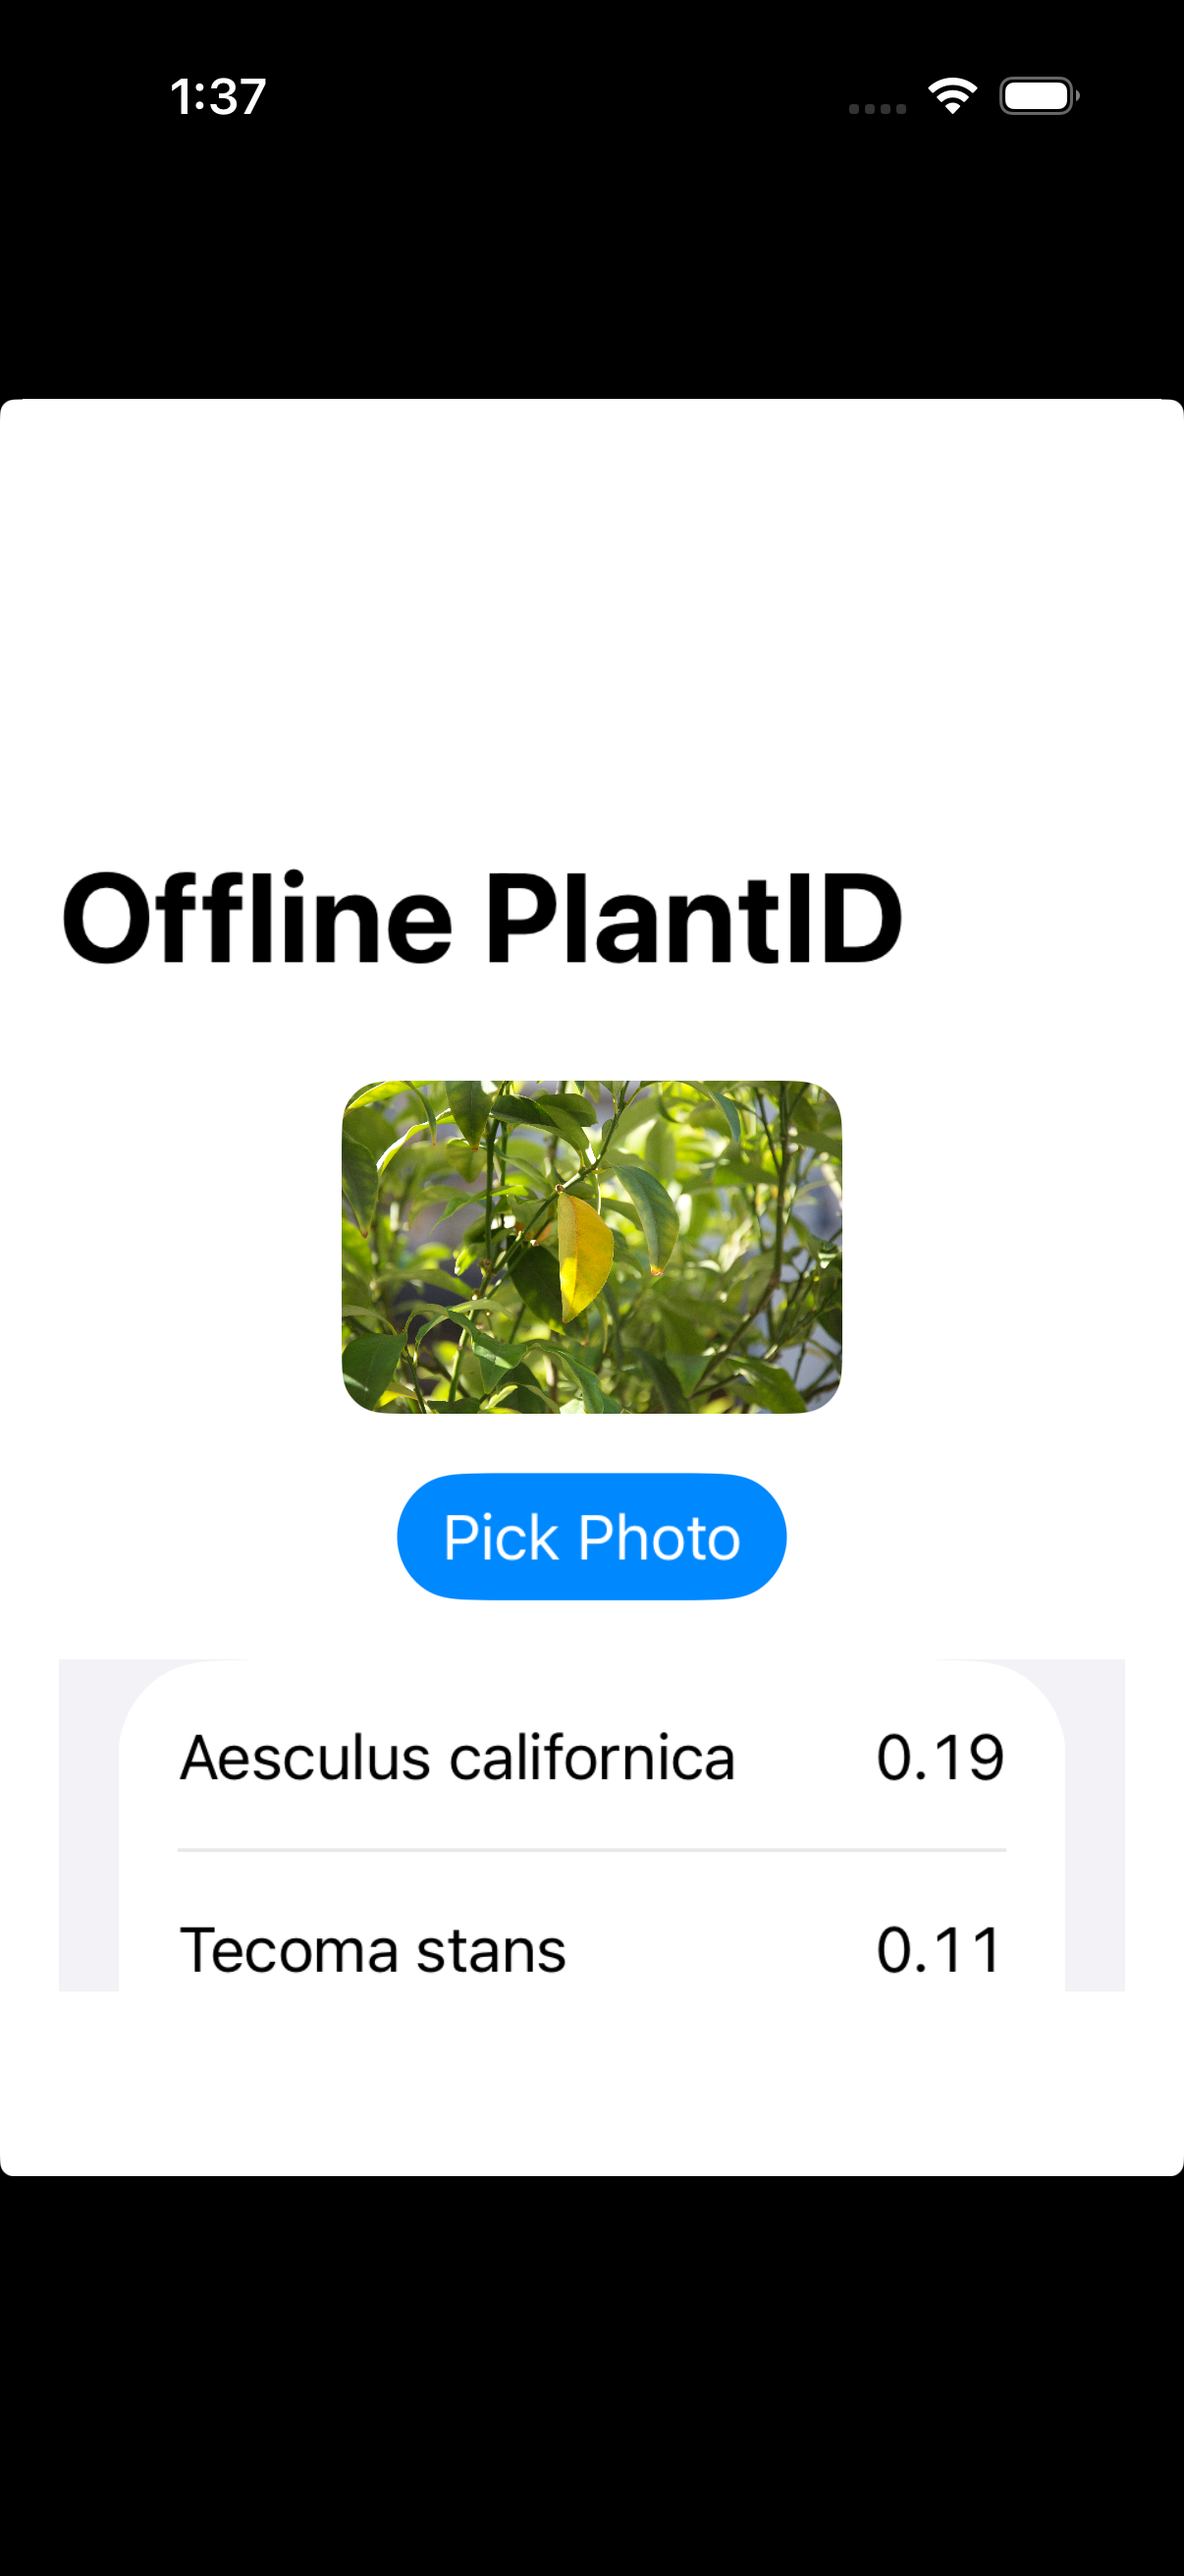
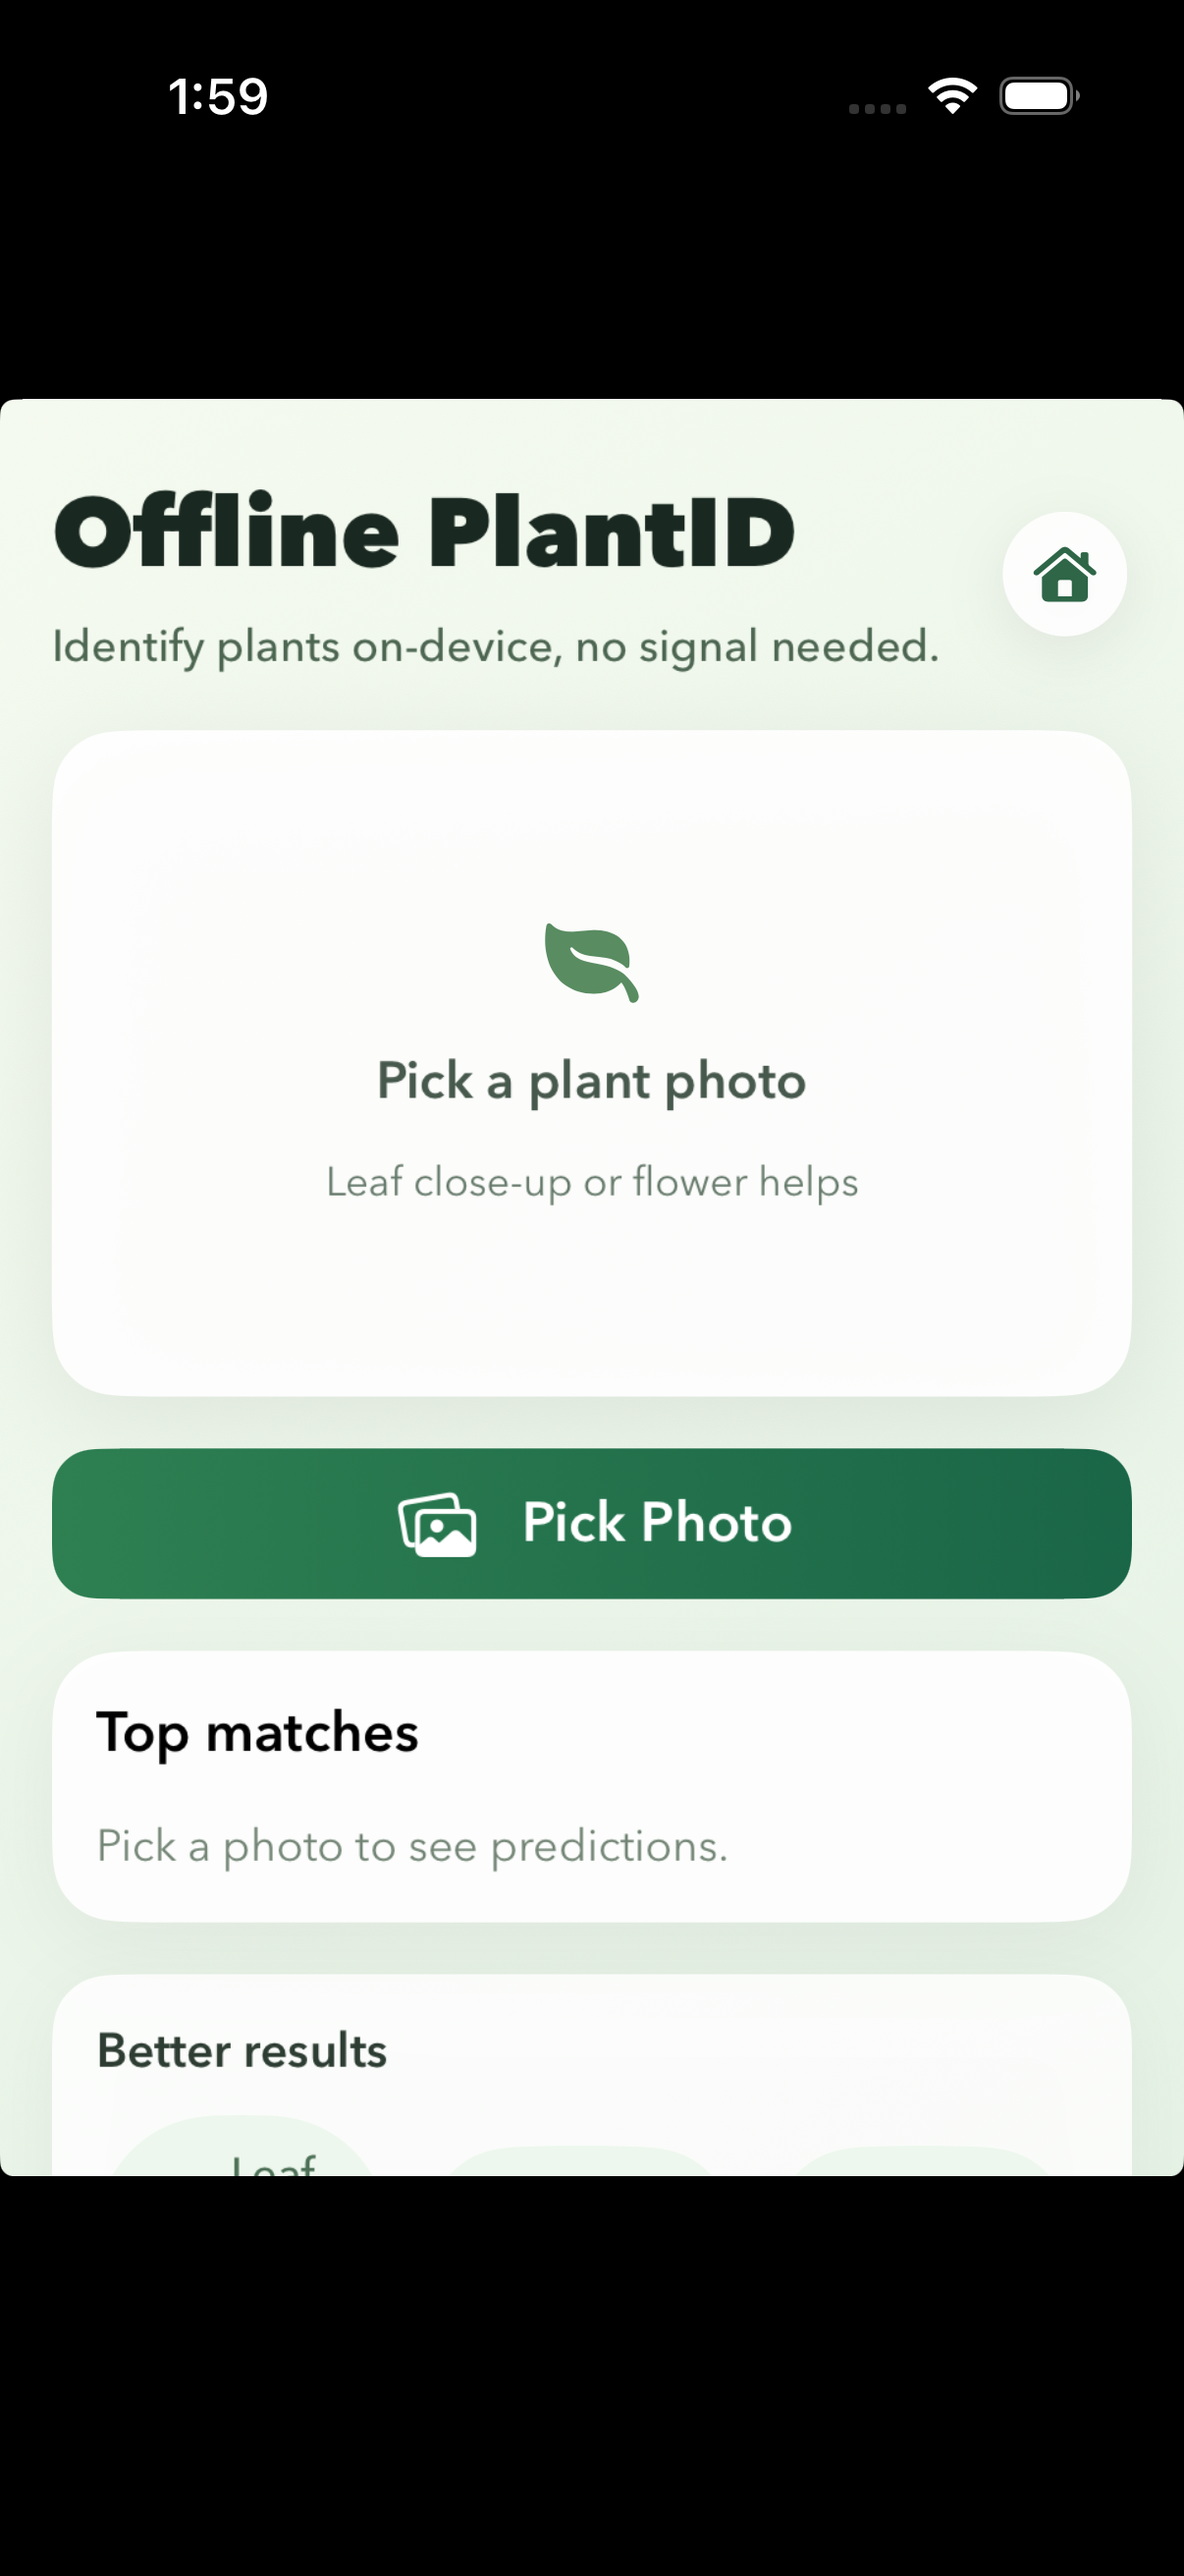
Update app

diff --git a/Sources/ContentView.swift b/Sources/ContentView.swift
@@ -9,43 +9,31 @@ struct ContentView: View {
     private let modelDataHandler = ModelDataHandler()
 
     var body: some View {
-        NavigationView {
-            VStack(spacing: 16) {
-                if let image = selectedImage {
-                    Image(uiImage: image)
-                        .resizable()
-                        .scaledToFit()
-                        .frame(maxHeight: 260)
-                        .cornerRadius(12)
-                } else {
-                    RoundedRectangle(cornerRadius: 12)
-                        .fill(Color.gray.opacity(0.15))
-                        .frame(height: 220)
-                        .overlay(Text("Pick a plant photo"))
-                }
+        ZStack {
+            LinearGradient(
+                colors: [Color(red: 0.96, green: 0.98, blue: 0.94),
+                         Color(red: 0.90, green: 0.95, blue: 0.90)],
+                startPoint: .topLeading,
+                endPoint: .bottomTrailing
+            )
+            .ignoresSafeArea()
 
-                Button("Pick Photo") {
-                    isPickerPresented = true
+            ScrollView {
+                VStack(spacing: 14) {
+                    header
+                    photoCard
+                    actionRow
+                    resultCard
+                    tipsCard
+                    Spacer(minLength: 0)
                 }
-                .buttonStyle(.borderedProminent)
-
-                if let errorMessage {
-                    Text(errorMessage)
-                        .foregroundColor(.red)
-                }
-
-                List(predictions) { prediction in
-                    HStack {
-                        Text(prediction.label)
-                        Spacer()
-                        Text(String(format: "%.2f", prediction.confidence))
-                            .monospacedDigit()
-                    }
-                }
+                .frame(maxWidth: .infinity, minHeight: UIScreen.main.bounds.height, alignment: .top)
+                .padding(.horizontal, 14)
+                .padding(.vertical, 14)
             }
-            .padding()
-            .navigationTitle("Offline PlantID")
+            .frame(maxWidth: .infinity, maxHeight: .infinity)
         }
+        .frame(maxWidth: .infinity, maxHeight: .infinity)
         .sheet(isPresented: $isPickerPresented) {
             PhotoPicker { image in
                 selectedImage = image
@@ -75,6 +63,218 @@ struct ContentView: View {
                 }
             }
         }
+    }
+}
+
+private extension ContentView {
+    var topPrediction: Prediction? {
+        predictions.max(by: { $0.confidence < $1.confidence })
+    }
+
+    var header: some View {
+        VStack(alignment: .leading, spacing: 8) {
+            HStack {
+                VStack(alignment: .leading, spacing: 4) {
+                    Text("Offline PlantID")
+                        .font(.custom("AvenirNext-Heavy", size: 26))
+                        .foregroundColor(Color(red: 0.10, green: 0.16, blue: 0.13))
+                    Text("Identify plants on-device, no signal needed.")
+                        .font(.custom("AvenirNext-Medium", size: 12))
+                        .foregroundColor(Color(red: 0.30, green: 0.40, blue: 0.32))
+                }
+                Spacer()
+                Button {
+                    selectedImage = nil
+                    predictions = []
+                    errorMessage = nil
+                } label: {
+                    Image(systemName: "house.fill")
+                        .font(.system(size: 14, weight: .semibold))
+                        .foregroundColor(Color(red: 0.18, green: 0.40, blue: 0.28))
+                        .padding(8)
+                        .background(Color.white.opacity(0.9))
+                        .clipShape(Circle())
+                        .shadow(color: Color.black.opacity(0.08), radius: 8, x: 0, y: 4)
+                }
+                .accessibilityLabel("Go home")
+            }
+        }
+        .frame(maxWidth: .infinity, alignment: .leading)
+    }
+
+    var photoCard: some View {
+        ZStack {
+            RoundedRectangle(cornerRadius: 18, style: .continuous)
+                .fill(Color.white.opacity(0.9))
+                .shadow(color: Color.black.opacity(0.08), radius: 14, x: 0, y: 6)
+
+            if let image = selectedImage {
+                Image(uiImage: image)
+                    .resizable()
+                    .scaledToFill()
+                    .frame(height: 180)
+                    .clipped()
+                    .cornerRadius(16)
+                    .padding(6)
+            } else {
+                VStack(spacing: 10) {
+                    Image(systemName: "leaf.fill")
+                        .font(.system(size: 24))
+                        .foregroundColor(Color(red: 0.35, green: 0.55, blue: 0.38))
+                    Text("Pick a plant photo")
+                        .font(.custom("AvenirNext-DemiBold", size: 14))
+                        .foregroundColor(Color(red: 0.28, green: 0.35, blue: 0.30))
+                    Text("Leaf close-up or flower helps")
+                        .font(.custom("AvenirNext-Regular", size: 11))
+                        .foregroundColor(Color(red: 0.40, green: 0.48, blue: 0.42))
+                }
+                .frame(height: 180)
+            }
+        }
+    }
+
+    var actionRow: some View {
+        HStack(spacing: 12) {
+            Button {
+                isPickerPresented = true
+            } label: {
+                HStack(spacing: 10) {
+                    Image(systemName: "photo.on.rectangle.angled")
+                    Text(selectedImage == nil ? "Pick Photo" : "Pick Another")
+                        .font(.custom("AvenirNext-DemiBold", size: 15))
+                }
+                .foregroundColor(.white)
+                .padding(.vertical, 10)
+                .frame(maxWidth: .infinity)
+                .background(
+                    LinearGradient(
+                        colors: [Color(red: 0.18, green: 0.50, blue: 0.32),
+                                 Color(red: 0.10, green: 0.40, blue: 0.28)],
+                        startPoint: .leading,
+                        endPoint: .trailing
+                    )
+                )
+                .clipShape(RoundedRectangle(cornerRadius: 12, style: .continuous))
+            }
+        }
+    }
+
+    var resultCard: some View {
+        VStack(alignment: .leading, spacing: 12) {
+            HStack {
+                Text("Top matches")
+                    .font(.custom("AvenirNext-DemiBold", size: 15))
+                Spacer()
+                if !predictions.isEmpty {
+                    Text("Confidence")
+                        .font(.custom("AvenirNext-Medium", size: 10))
+                        .foregroundColor(Color(red: 0.45, green: 0.52, blue: 0.46))
+                }
+            }
+
+            if let errorMessage {
+                Text(errorMessage)
+                    .font(.custom("AvenirNext-Medium", size: 12))
+                    .foregroundColor(Color(red: 0.72, green: 0.18, blue: 0.18))
+            } else if predictions.isEmpty {
+                Text("Pick a photo to see predictions.")
+                    .font(.custom("AvenirNext-Regular", size: 12))
+                    .foregroundColor(Color(red: 0.45, green: 0.52, blue: 0.46))
+            } else {
+                if let topPrediction {
+                    HStack(alignment: .firstTextBaseline, spacing: 8) {
+                        Text("Most likely:")
+                            .font(.custom("AvenirNext-Medium", size: 12))
+                            .foregroundColor(Color(red: 0.35, green: 0.42, blue: 0.36))
+                        Text(topPrediction.label)
+                            .font(.custom("AvenirNext-DemiBold", size: 13))
+                            .foregroundColor(Color(red: 0.12, green: 0.18, blue: 0.14))
+                    }
+                }
+                VStack(spacing: 8) {
+                    ForEach(predictions) { prediction in
+                        let isTop = prediction.id == topPrediction?.id
+                        VStack(spacing: 6) {
+                            HStack(alignment: .firstTextBaseline) {
+                                Text(prediction.label)
+                                    .font(.custom("AvenirNext-Medium", size: 13))
+                                    .foregroundColor(Color(red: 0.16, green: 0.20, blue: 0.17))
+                                Spacer()
+                                Text(String(format: "%.0f%%", min(max(prediction.confidence, 0), 1) * 100))
+                                    .font(.custom("AvenirNext-DemiBold", size: 11))
+                                    .foregroundColor(Color(red: 0.18, green: 0.40, blue: 0.28))
+                            }
+                            ConfidenceBar(value: prediction.confidence)
+                        }
+                        .padding(8)
+                        .background(
+                            RoundedRectangle(cornerRadius: 10, style: .continuous)
+                                .fill(isTop ? Color(red: 0.90, green: 0.97, blue: 0.90) : Color.clear)
+                        )
+                    }
+                }
+            }
+        }
+        .padding(12)
+        .background(Color.white.opacity(0.9))
+        .clipShape(RoundedRectangle(cornerRadius: 18, style: .continuous))
+        .shadow(color: Color.black.opacity(0.06), radius: 12, x: 0, y: 5)
+    }
+
+    var tipsCard: some View {
+        VStack(alignment: .leading, spacing: 8) {
+            Text("Better results")
+                .font(.custom("AvenirNext-DemiBold", size: 13))
+                .foregroundColor(Color(red: 0.18, green: 0.24, blue: 0.20))
+            HStack(spacing: 10) {
+                tipPill(icon: "leaf", text: "Leaf close-up")
+                tipPill(icon: "camera.macro", text: "Sharp focus")
+                tipPill(icon: "sun.max", text: "Good light")
+            }
+        }
+        .frame(maxWidth: .infinity, alignment: .leading)
+        .padding(12)
+        .background(Color.white.opacity(0.85))
+        .clipShape(RoundedRectangle(cornerRadius: 16, style: .continuous))
+        .shadow(color: Color.black.opacity(0.05), radius: 10, x: 0, y: 4)
+    }
+
+    func tipPill(icon: String, text: String) -> some View {
+        HStack(spacing: 6) {
+            Image(systemName: icon)
+            Text(text)
+                .font(.custom("AvenirNext-Medium", size: 12))
+        }
+        .foregroundColor(Color(red: 0.30, green: 0.44, blue: 0.34))
+        .padding(.vertical, 8)
+        .padding(.horizontal, 10)
+        .background(Color(red: 0.93, green: 0.97, blue: 0.93))
+        .clipShape(Capsule())
+    }
+}
+
+private struct ConfidenceBar: View {
+    let value: Float
+
+    var body: some View {
+        GeometryReader { proxy in
+            let clamped = min(max(CGFloat(value), 0), 1)
+            ZStack(alignment: .leading) {
+                Capsule()
+                    .fill(Color(red: 0.90, green: 0.94, blue: 0.90))
+                Capsule()
+                    .fill(
+                        LinearGradient(
+                            colors: [Color(red: 0.22, green: 0.55, blue: 0.36),
+                                     Color(red: 0.12, green: 0.43, blue: 0.30)],
+                            startPoint: .leading,
+                            endPoint: .trailing
+                        )
+                    )
+                    .frame(width: proxy.size.width * clamped)
+            }
+        }
+        .frame(height: 6)
     }
 }
 

diff --git a/README.md b/README.md
@@ -3,7 +3,9 @@
 SwiftUI + iOS 15+ offline plant classifier using the Nature Explorer plants model.
 
 <p align="center">
-  <img src="docs/app-screenshot-01.png" alt="Offline PlantID app screenshot" width="320">
+  <img src="docs/app-screenshot-01.png" alt="Offline PlantID app screenshot 1" width="260">
+  <img src="docs/app-screenshot-02.png" alt="Offline PlantID app screenshot 2" width="260">
+  <img src="docs/app-screenshot-03.png" alt="Offline PlantID app screenshot 3" width="260">
 </p>
 
 ## What you need
